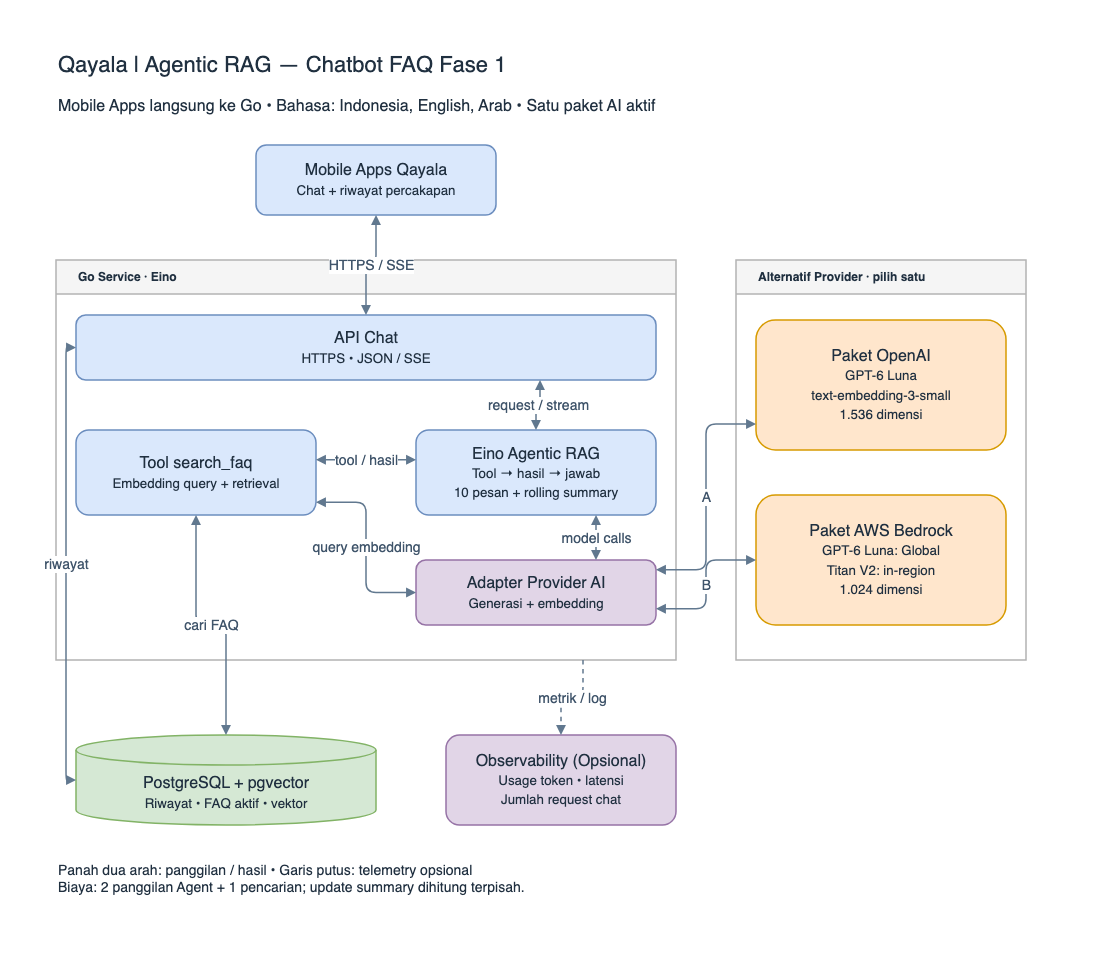
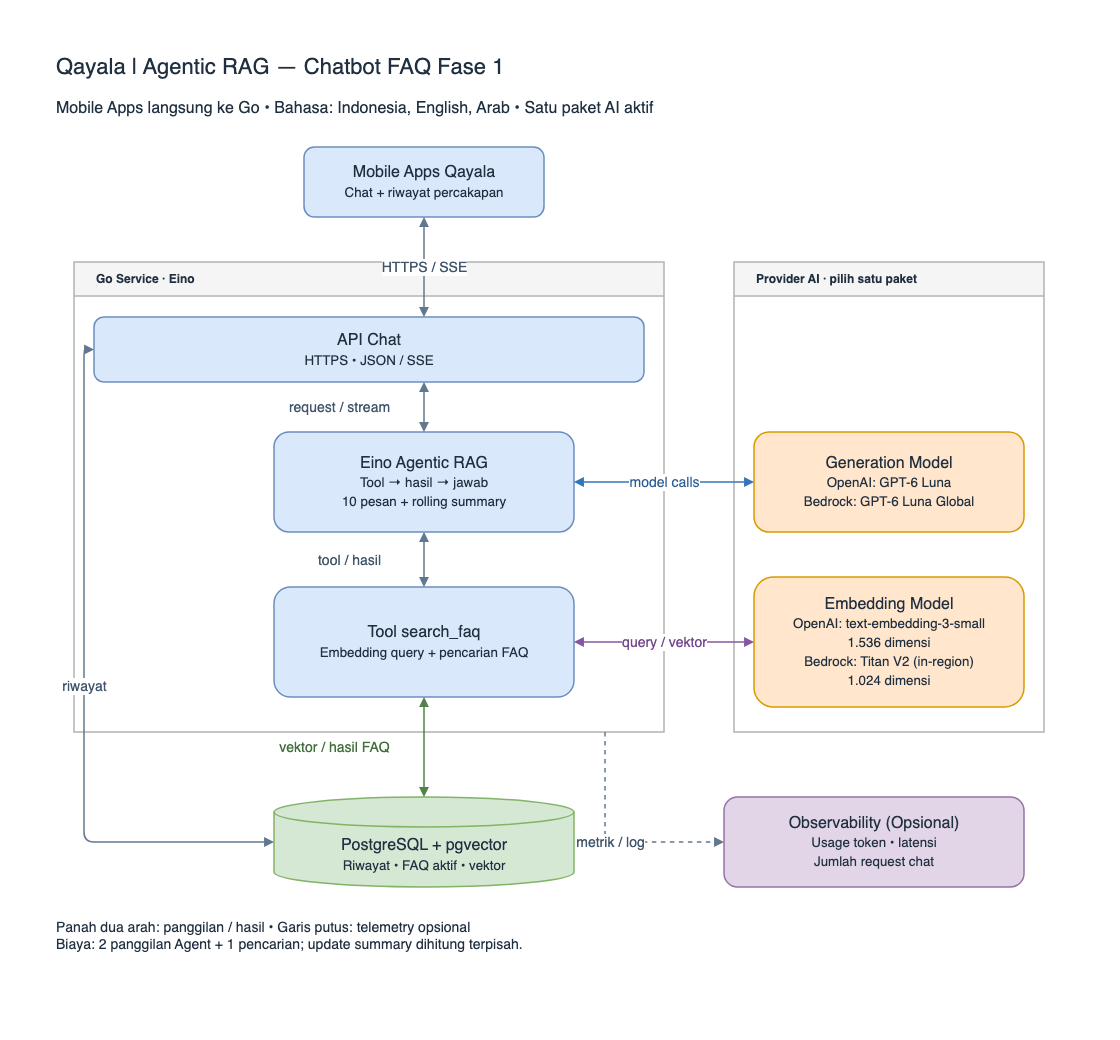
docs(qayala): refine model flow and cost baseline

Changed region(s): [[0.0309, 0.0306, 0.9273, 0.8571], [0.0309, 0.8878, 0.4636, 0.9184], [0.1855, 0.6735, 0.2164, 0.7041]]

diff --git a/docs/qayala/architecture-analysis.md b/docs/qayala/architecture-analysis.md
@@ -75,11 +75,11 @@ Estimasi saat memory sudah penuh. Chat dapat terus berlanjut; setiap pasangan pe
 
 Agent dan summary memakai model yang sama, reasoning `none`, tanpa caching. Biaya per pertanyaan ≈ **$0,001252** (model + embedding query), ditambah indexing **$0,02/bulan**. Dengan N pertanyaan, **biaya AI bulanan = N × $0,001252 + $0,02**. Pemakaian aktual mengikuti jumlah token.
 
+Baseline **33.574 interaksi per bulan**, dengan satu interaksi dihitung sebagai satu pertanyaan baru pengguna dan satu jawaban chatbot.
+
 | Pertanyaan/bulan | Agent + update summary | Embedding query + indexing | Total AI OpenAI | Total AI Bedrock Global + Titan |
 |---:|---:|---:|---:|---:|
-| 1.000 | $1,250 | $0,022 | **$1,272** | **$1,272** |
-| 10.000 | $12,500 | $0,040 | **$12,540** | **$12,540** |
-| 100.000 | $125,000 | $0,220 | **$125,220** | **$125,220** |
+| 33.574 | $41,968 | $0,087 | **$42,055** | **$42,055** |
 
 Estimasi mencakup pemakaian model dan embedding. Pencarian ulang oleh Agent dapat menambah biaya. Biaya infrastruktur belum termasuk dan mengikuti alokasi layanan yang digunakan.
 
